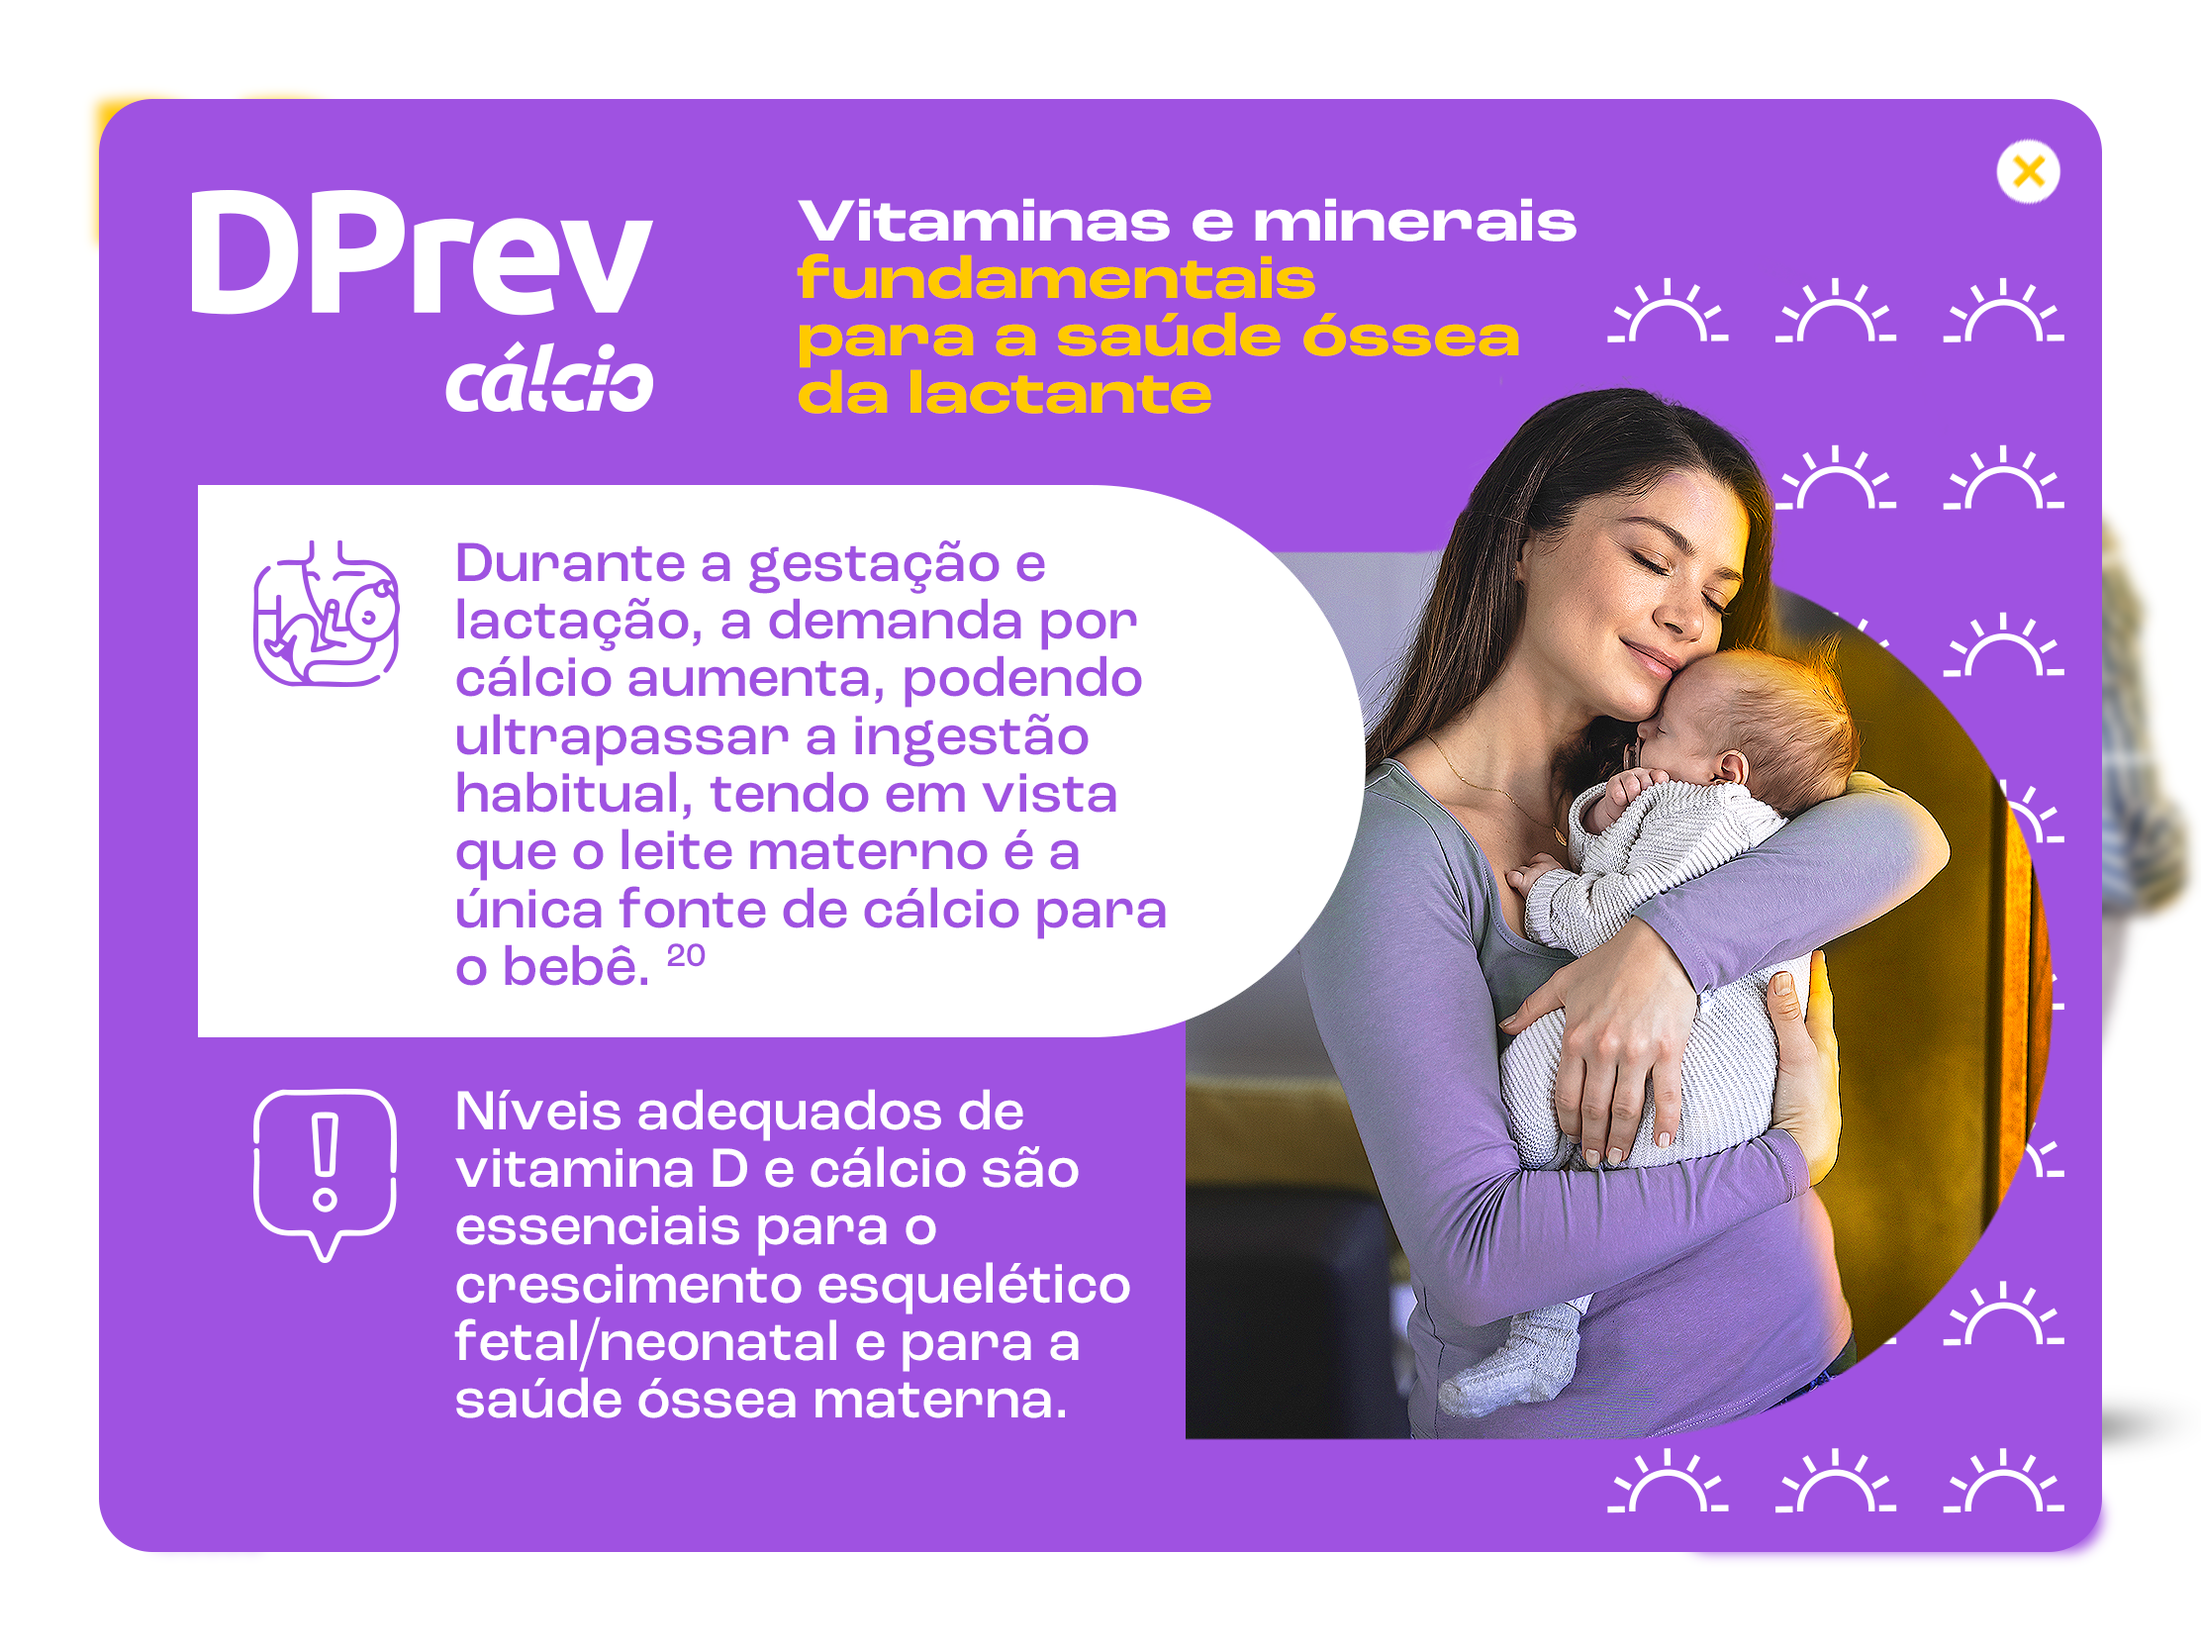
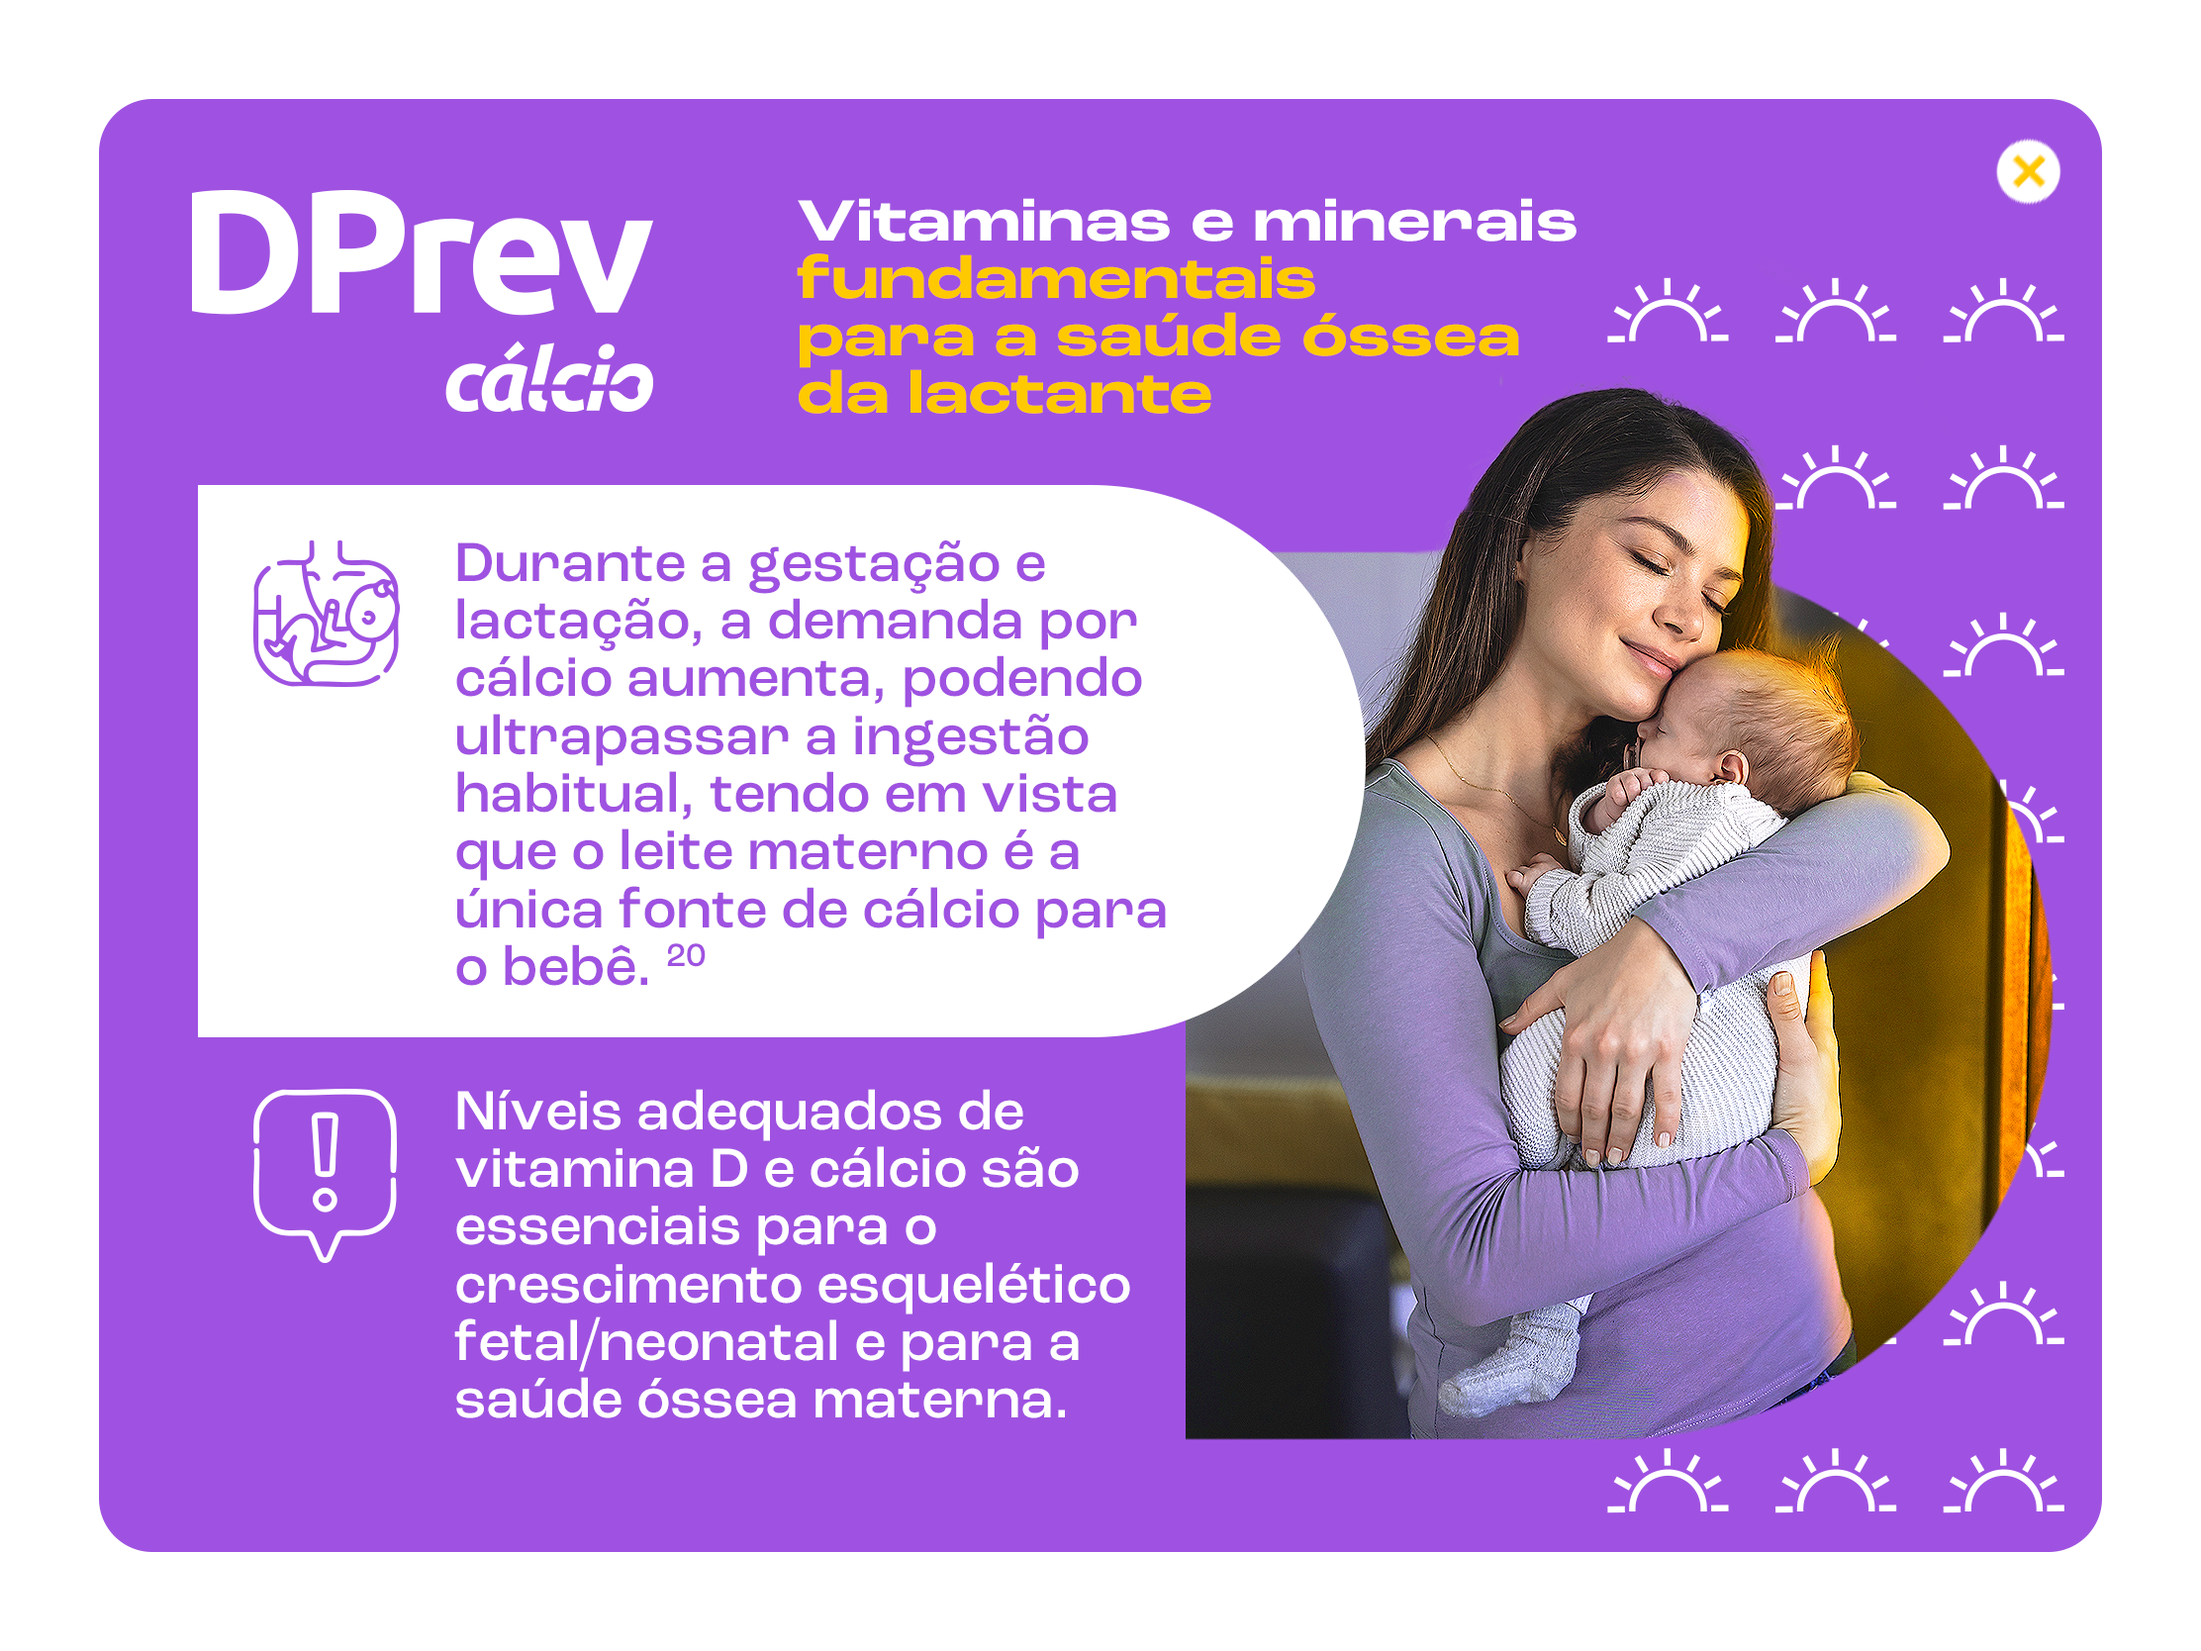
refactor: add backdrop blur effect and remove unused button styles in CSS

diff --git a/css/style.css b/css/style.css
@@ -17,6 +17,7 @@
   height: 834px;
   position: absolute;
   overflow: hidden;
+  backdrop-filter: blur(8px);
 }
 
 .slides {
@@ -159,27 +160,6 @@
   width: 45px;
   height: 45px;
   right: 266px;
-}
-
-.btn-popup-gineco {
-  top: 307px;
-  width: 45px;
-  height: 45px;
-  left: 322px;
-}
-
-.btn-popup-gastro {
-  top: 307px;
-  width: 45px;
-  height: 45px;
-  left: 630px;
-}
-
-.btn-popup-end {
-  top: 307px;
-  width: 45px;
-  height: 45px;
-  left: 936px;
 }
 
 .btn-close-slide {
